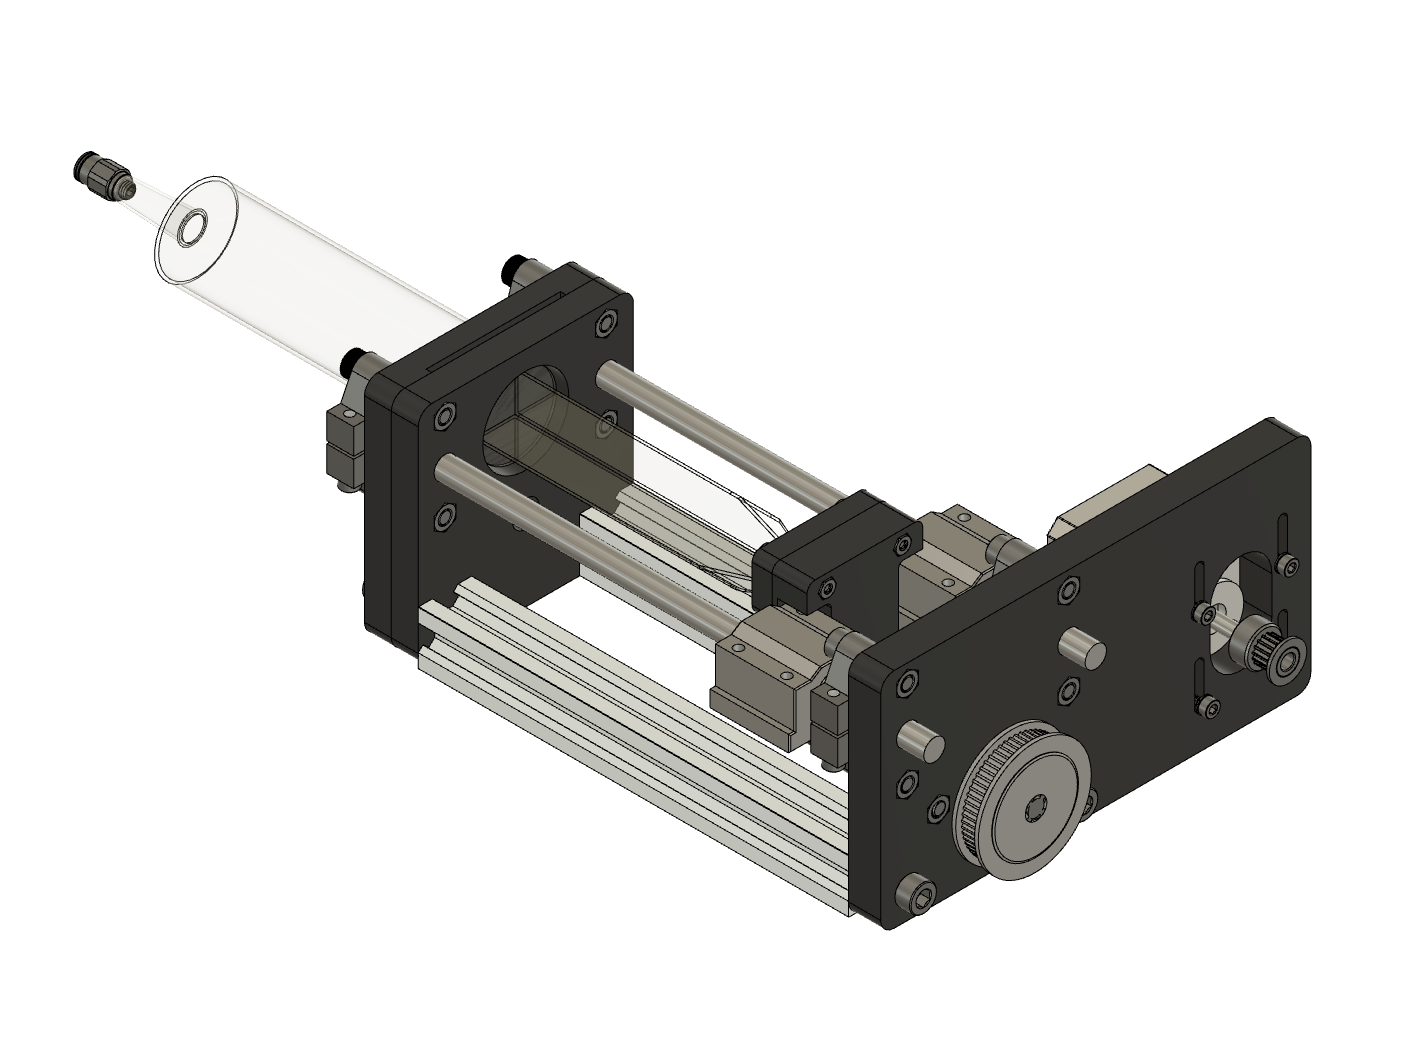
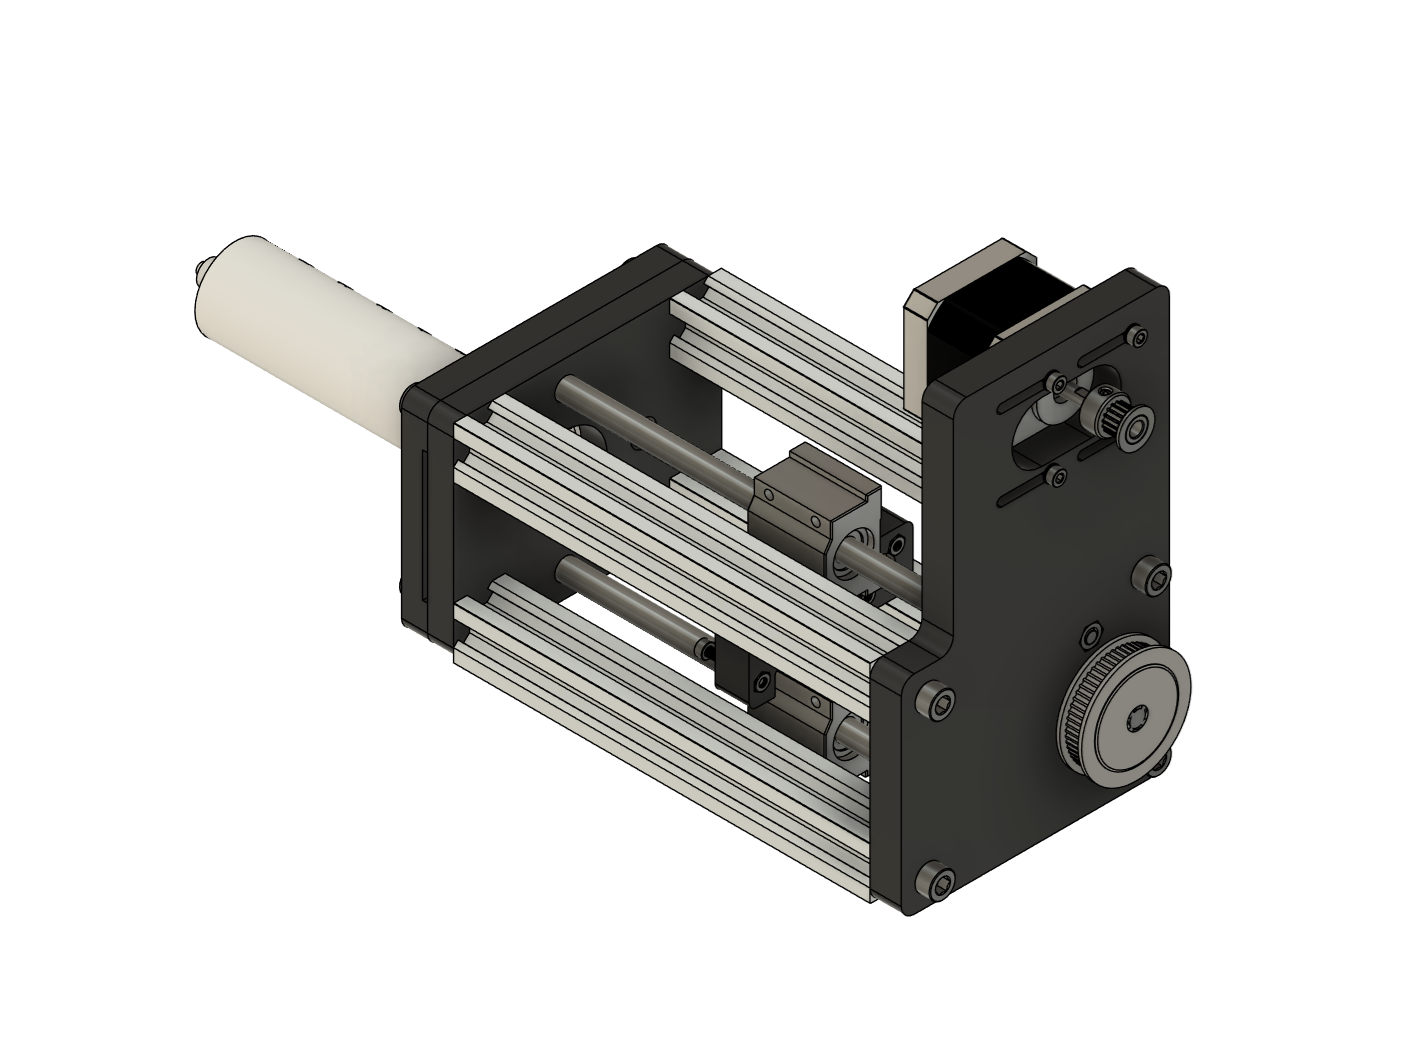
new design

Changed region(s): [[0.0306, 0.1519, 0.9494, 0.8813]]

diff --git a/README.md b/README.md
@@ -10,18 +10,18 @@ A toolhead for printing with paste using an Ender printer, like model 3 or 5.
 
 # Design
 
-The idea was to hack a 3D printer to mount the toolhead as easy as possible. It uses the same extruder motor of the printer, but there are some tweaks that must be done in the hardware, firmware and slicer software. All the pieces are [HERE](https://grabcad.com/library/syringe-hydraulic-paste-extruder-for-ender-1).
+The idea was to hack a 3D printer to mount the toolhead as easy as possible. It uses the same extruder motor of the printer, but there are some tweaks that must be done in the hardware, firmware and slicer software. All the pieces are [HERE](https://grabcad.com/library/syringe-hydraulic-paste-extruder-for-ender-1) and the parts list [HERE](PARTS.md).
 
-The extruder pushes a syringe that is conected with a tube to another syringe on the gantry. The syringe pushes water into the other syringe, so the plunger moves downward. This plunger pushes the plunger of other syringe that holds the material, wich is extruded trough the tip. In this 
+The extruder pushes a syringe that is conected with a tube to another syringe on the gantry. The syringe pushes water into the other syringe, so the plunger moves downward. This plunger pushes the plunger of other syringe that holds the material, wich is extruded trough the tip. 
 
 The extruder motor is connected to a pulley and a timing belt, to increase torque. A bigger pulley is connected to the power screw to move the carriage that pushes the plunger of the syringe. There is a pair of linear bearings that moves through 8 mm rods. 
+
+The luer lock syringes are connected using 2 3-way luer valves. A 3d printed nozzle can be mounted in the tip of the material syringe.
 
 
 # Fabrication
 
-Most of the parts were 3d printed in PLA. If the steel rods are longer than they should be it doesnt matter too much, neither if you dont have the rod supports, with a 3d printed collar should be fine eitherway.  The T-Slots were cutted with saw and the rectified with a cnc mill.
-
-It is very important that the connection between syringes and the hose to be absolutely water tight, you dont want water in your 3d printer, do you? In this case I cut some fittings and put a pair of orings between the nuts. Maybe you could do something with the Luer-Lok system of some syringes.
+Most of the parts were 3d printed in PLA. The T-Slots were cutted with saw and the rectified with a cnc mill.
 
 <img src="/imgs/s9.png" width="400">
 
@@ -29,17 +29,19 @@ It is very important that the connection between syringes and the hose to be abs
 
 You have to remove the extruder and the extruder motor assembly completely from the printer, EXCEPT for the thermocouple. The connector of the extruder motor is connected to the syringe extruder. The syringe toolhead fits in the two extrusions of the gantry with M3 thread.
 
+I grounded the extruder to an Ender 5 using 2020 angle brackets between the T-slots.
+
 The water filling of the syringes could be tricky, the idea is that the hose, the extruder syringe and the tip (not the full body) of the toolhead syringe should be full of water. If there is air in between, the compression of it could lead to undesired results.
 
 # Tweaks
 
-Hardware: The z zero reference is obviously going to change. I put a t-slot to move the sensor up and down, depending on the syringe.
+Hardware: The z zero reference is obviously going to change depending on the syringe and the nozzle. I put a t-slot to move the sensor up and down with a t-nut.
 
 Firmware: The step per mm in the E axis should change. In my case, using a 1:3 reduction instead of the 1:3.75 of the CAD design, the number is 1191 steps approximately. 
 
 Software: I use the printer with the monitor of Cura, as a new custom machine. The nozzle should be the size of the tip of your syringe. Everything else should be the default settings of the printer that you are using. There is a problem with creating a new material with the inner diameter of the syringe, so I am reducing the flow to 1% in the settings. 
 
-Before printing: The instruction M302 S0 has to be sent to allow cold extrusion. Then, after loading the syringe with material into the toolhead, you have to move the E axis until the plungers are touching each other. Then you put the plastic pieces and extrude a little bit more until material comes out of the nozzle. These plastic pieces are for experimenting with retraction. Remember to calibrate the Z home.
+Before printing: The instruction M302 S0 has to be sent to allow cold extrusion. Then, after loading the syringe with material into the toolhead, you have to move the E axis until the plungers are touching each other. 
 
 # Tests
 

diff --git a/PARTS.md b/PARTS.md
@@ -1,0 +1,43 @@
+# Parts list
+
+## 3D Printed
+
+| Part   | Quantity |
+| -------- | ------- |
+| Gantry piece | 1    |
+| Plunge holder | 2    |
+| Plunge holder A    | 1    |
+| Plunge holder B    | 1    |
+| Syringe support A  | 1    |
+| Syringe support B  | 1    |
+| Carriage   | 1    |
+| Motor-pulley support   | 1    |
+| Nozzle   | 1    |
+
+
+The spacer is for the collar, you may not need it.
+
+## Commercial parts
+
+| Part   | Quantity |
+| -------- | ------- |
+| 60 ml syringe LuerLock | 3  |
+| 16T GT2 Pulley | 1     |
+| 60T GT2 Pulley  | 1    |
+| KFL08 Bearing | 1    |
+| 300T GT2 timing belt | 1   |
+| 8x188 mm steel round bar  | 2    |
+| T-Slot 2020 |   1 meter |
+| Tr8 screw |  200 mm  |
+| Tr8 brass nut |   1 |
+| M3 nut  |   8  |
+| M3 washer |   4  |
+| M3x16 bolt  |   6  |
+| M3x20 bolt  |   4  |
+| M4x15 bolt  |   2  |
+| M5 nut  |   2  |
+| M5x16 bolt  |   2  |
+
+
+
+
